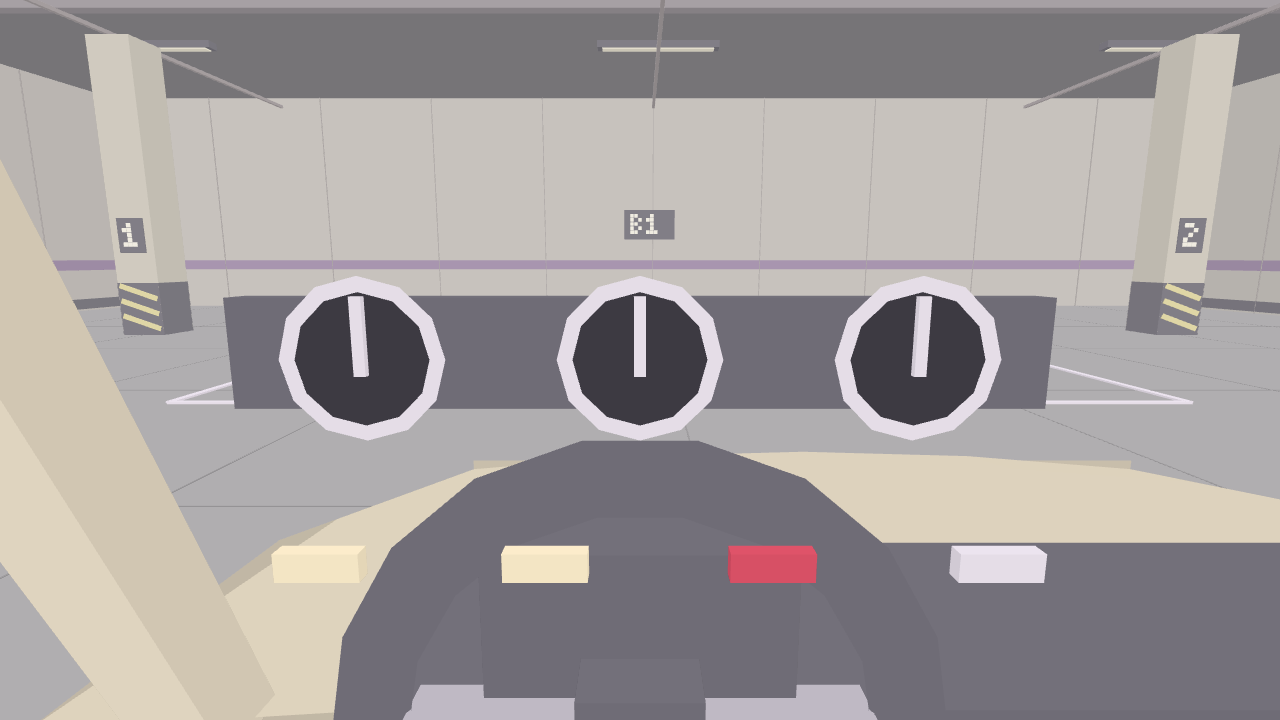
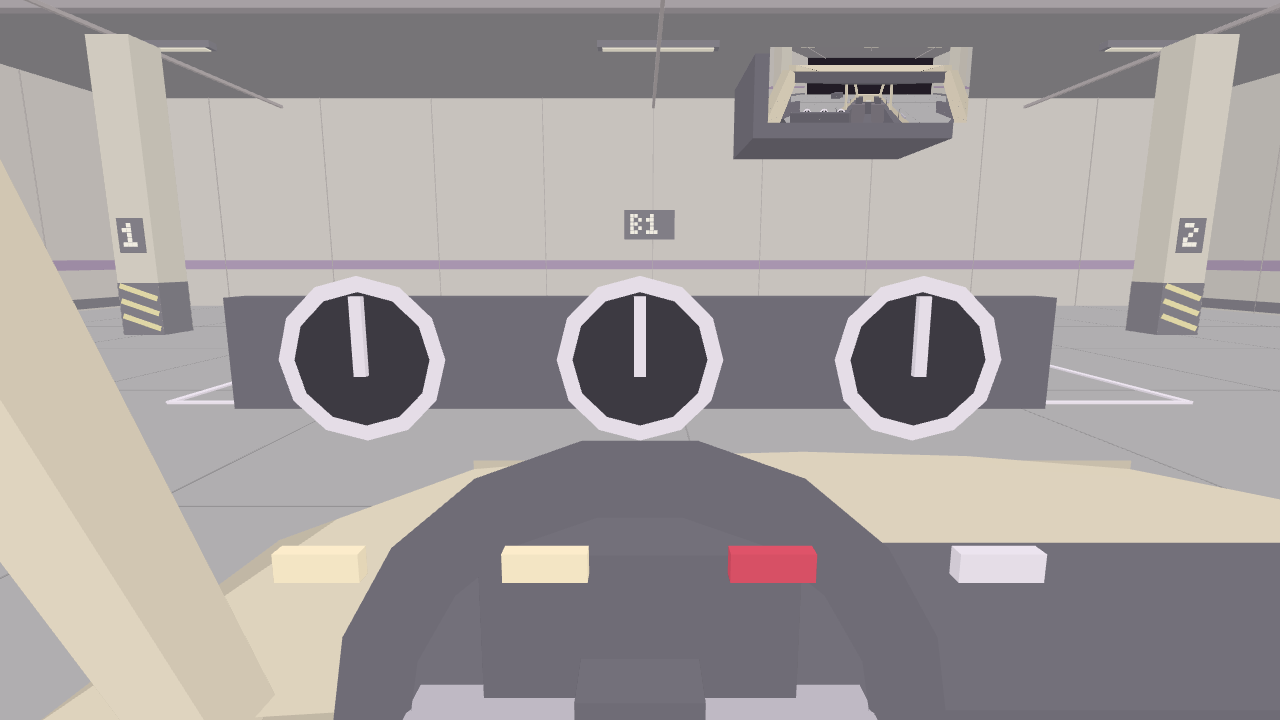
fix: frame rearview mirror in driver view

Changed region(s): [[0.5625, 0.0611, 0.7812, 0.2444]]

diff --git a/docs/phase-8-asset-catalog.md b/docs/phase-8-asset-catalog.md
@@ -19,8 +19,8 @@ rear-side gaps.
 
 | Asset | Width x height x length (m) | Stored triangles | Nodes / meshes | GLB bytes |
 |---|---|---:|---:|---:|
-| [Sedan](../public/assets/vehicles/sedan.glb) | 1.8 x 1.45 x 4.6 | 3,270 | 43 / 31 | 240,248 |
-| [CUV](../public/assets/vehicles/cuv.glb) | 1.8 x 1.62 x 4.35 | 3,390 | 42 / 30 | 248,460 |
+| [Sedan](../public/assets/vehicles/sedan.glb) | 1.8 x 1.45 x 4.6 | 3,270 | 43 / 31 | 240,280 |
+| [CUV](../public/assets/vehicles/cuv.glb) | 1.8 x 1.62 x 4.35 | 3,390 | 42 / 30 | 248,452 |
 
 Counts include the cockpit, mirror surfaces and both stored glazing variants,
 even when one is hidden. Both are below the 10,000-triangle vehicle gate.
@@ -68,13 +68,13 @@ The physical profiles, eye anchors and mirror-camera anchors are unchanged:
 | CUV | 0.62 | (-0.36, 0.68, -0.8462) | (0, 0.80, -1.5962) | (+/-0.965, 0.48, -0.7462) |
 
 Mirror anchor yaw remains rear 180 degrees, left +105 degrees and right
--105 degrees. The smaller 0.09 x 0.035 m rearview **display mesh** is placed
-inside the cabin, offset from its unchanged virtual camera by
-(-0.22, -0.025, +0.52) m. It is a view proxy, not a newly calibrated optical
-mirror. Side displays face the driver while their virtual camera anchors and
-yaw remain unchanged; separate pale exterior reflector faces make the side
-mirrors legible from outside, and housings remain behind the driver-facing
-display planes.
+-105 degrees. The smaller 0.07 x 0.025 m rearview **display mesh** is placed
+inside the cabin, within the driver's forward view, offset from its unchanged
+virtual camera by (-0.28, -0.06, +0.52) m. It is a view proxy, not a newly
+calibrated optical mirror. Side displays face the driver; their virtual camera
+anchors and yaw remain unchanged. Separate pale exterior reflector faces make
+the side mirrors legible from outside, while housings remain behind the
+driver-facing display planes.
 Planar mirror surfaces have UVs and updates retain the existing 15 FPS cap.
 Loaded-mesh 9 x 9 ray grids verify both side faces are unobstructed from each
 fixed eye; separate projected-width and angle checks reject edge-on displays.

diff --git a/docs/update-12-car-3d-asset-redesign.md b/docs/update-12-car-3d-asset-redesign.md
@@ -45,13 +45,13 @@ needles, pedals, console, seats and static controls remain artwork only, not
 simulator telemetry. Loaded-GLB regressions check the wheel ring, dial faces,
 indicator visibility and steering-wheel clearance.
 
-Reduced the rearview display surface from 0.12 x 0.05 m to 0.09 x 0.035 m and
-raised it inside the cabin. Its offset from the unchanged `MirrorRear` camera
-anchor is (-0.22, -0.025, +0.52) m. The visible side-mirror display meshes
-face the fixed driver eye; separate pale exterior faces make the mirror bodies
-read in outside views. Camera anchors and yaw remain unchanged, and housings
-sit behind the driver-facing display planes. Render-target behavior, UVs, and
-the 15 FPS update cap remain unchanged. Displays are view proxies, not
+Reduced the rearview display surface from 0.12 x 0.05 m to 0.07 x 0.025 m and
+raised it inside the cabin, within the driver's forward view. Its offset from
+the unchanged `MirrorRear` camera anchor is (-0.28, -0.06, +0.52) m. Side-mirror
+display meshes face the fixed driver eye; separate pale exterior faces make the
+mirror bodies read in outside views. Camera anchors and yaw remain unchanged;
+housings sit behind the driver-facing display planes. Render-target behavior,
+UVs and the 15 FPS update cap remain unchanged. Displays are view proxies, not
 calibrated optical mirrors.
 
 The following runtime and geometry contracts remain unchanged:
@@ -74,8 +74,8 @@ cockpit and glazing variants, including hidden variants.
 
 | Asset | Triangles | Nodes / meshes | GLB bytes |
 |---|---:|---:|---:|
-| Sedan | 3,270 | 43 / 31 | 240,248 |
-| CUV | 3,390 | 42 / 30 | 248,460 |
+| Sedan | 3,270 | 43 / 31 | 240,280 |
+| CUV | 3,390 | 42 / 30 | 248,452 |
 
 Both vehicles remain below the 10,000-triangle limit. Selected vehicle and
 environment payloads remain below 5 MB:
